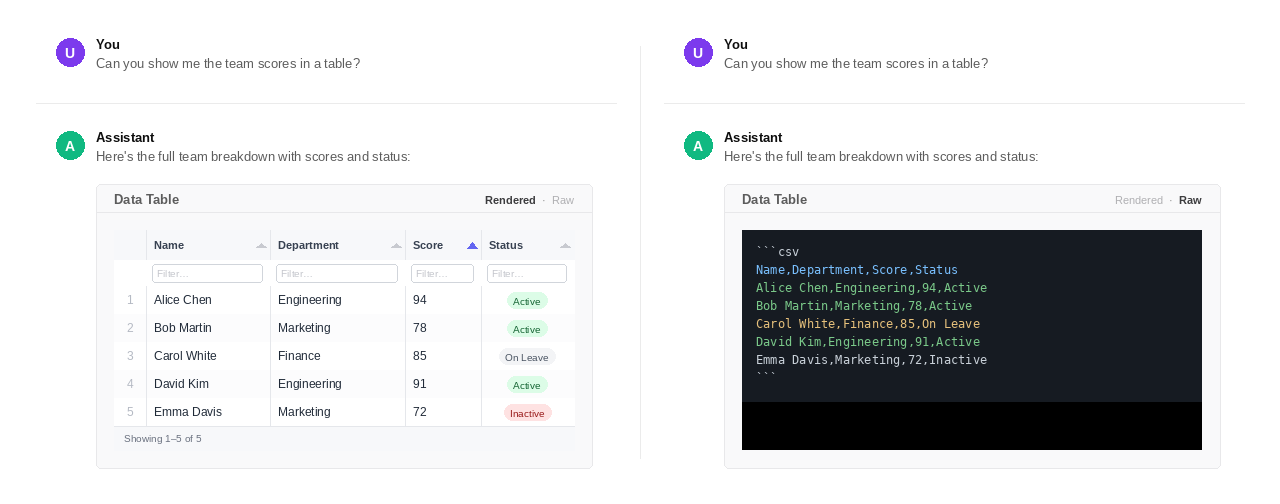
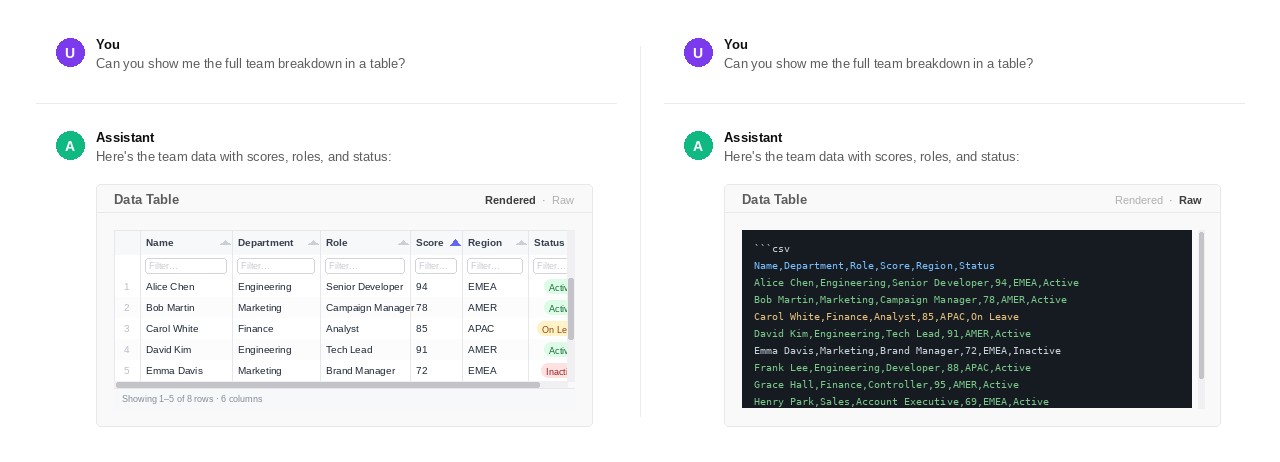
Rewrite data table renderer with denser layout and scroll
Smaller fonts (11px), 8-row dataset with 5 visible rows (V-scroll),
6 columns with horizontal scroll, sort indicators in headers,
filter row per column, and row numbers.

Claude-Session: https://claude.ai/code/session_01CYjqpWt1v2JhCDuDBEJCSM

diff --git a/samples/generate_renderer_preview.py b/samples/generate_renderer_preview.py
@@ -429,154 +429,191 @@ def make_vegalite():
 # ═══════════════════════════════════════════════════════════════════════════
 #  03 — DATA TABLE
 # ═══════════════════════════════════════════════════════════════════════════
+# ═══════════════════════════════════════════════════════════════════════════
+#  03 — DATA TABLE
+# ═══════════════════════════════════════════════════════════════════════════
 TBL_HDR_BG   = (247, 248, 250)
 TBL_HDR_TX   = ( 55,  65,  81)
 TBL_ROW_ALT  = (252, 252, 253)
 TBL_BORDER   = (229, 231, 235)
 TBL_TX       = ( 31,  41,  55)
-TBL_MUTED    = (107, 114, 128)
+TBL_MUTED    = (130, 138, 150)
 SORT_ACTIVE  = ( 99, 102, 241)
 FILTER_BG    = (255, 255, 255)
 FILTER_BDR   = (209, 213, 219)
-ROW_NUM_COL  = (180, 185, 195)
+ROW_NUM_COL  = (185, 190, 200)
 STATUS_GREEN = (220, 252, 231)
 STATUS_GTXT  = ( 22, 101,  52)
 STATUS_RED   = (254, 226, 226)
 STATUS_RTXT  = (153,  27,  27)
 STATUS_GRAY  = (243, 244, 246)
 STATUS_GTXT2 = ( 75,  85,  99)
+STATUS_AMB   = (254, 243, 199)
+STATUS_ATXT  = (146,  64,  14)
 
-COLS      = ["Name", "Department", "Score", "Status"]
-COL_W     = [110, 120, 68, 80]   # relative widths — scaled to fit
-ROW_NUM_W = 32
-ROWS = [
-    ("Alice Chen",   "Engineering", "94", "Active"),
-    ("Bob Martin",   "Marketing",   "78", "Active"),
-    ("Carol White",  "Finance",     "85", "On Leave"),
-    ("David Kim",    "Engineering", "91", "Active"),
-    ("Emma Davis",   "Marketing",   "72", "Inactive"),
+ROW_NUM_W = 26
+COLS_DEF  = [                         # (label, pixel-width in full table)
+    ("Name",        92),
+    ("Department",  88),
+    ("Role",        90),
+    ("Score",       52),
+    ("Region",      66),
+    ("Status",      66),
 ]
+ALL_ROWS = [
+    ("Alice Chen",  "Engineering", "Senior Developer",  "94", "EMEA",  "Active"),
+    ("Bob Martin",  "Marketing",   "Campaign Manager",  "78", "AMER",  "Active"),
+    ("Carol White", "Finance",     "Analyst",           "85", "APAC",  "On Leave"),
+    ("David Kim",   "Engineering", "Tech Lead",         "91", "AMER",  "Active"),
+    ("Emma Davis",  "Marketing",   "Brand Manager",     "72", "EMEA",  "Inactive"),
+    ("Frank Lee",   "Engineering", "Developer",         "88", "APAC",  "Active"),
+    ("Grace Hall",  "Finance",     "Controller",        "95", "AMER",  "Active"),
+    ("Henry Park",  "Sales",       "Account Executive", "69", "EMEA",  "Active"),
+]
+VISIBLE_ROWS = 5
+TBL_ROW_H  = 21
+TBL_HDR_H  = 25
+TBL_FILT_H = 21
+TBL_FOOT_H = 20
+V_SCROLL_W = 7
+H_SCROLL_H = 7
 
 def _status_badge(draw, cx, cy, text):
-    if text == "Active":
-        bg, tx = STATUS_GREEN, STATUS_GTXT
-    elif text == "Inactive":
-        bg, tx = STATUS_RED, STATUS_RTXT
-    else:
-        bg, tx = STATUS_GRAY, STATUS_GTXT2
-    f = UI(10)
+    if   text == "Active":   bg, tx = STATUS_GREEN, STATUS_GTXT
+    elif text == "Inactive": bg, tx = STATUS_RED,   STATUS_RTXT
+    elif text == "On Leave": bg, tx = STATUS_AMB,   STATUS_ATXT
+    else:                    bg, tx = STATUS_GRAY,  STATUS_GTXT2
+    f  = UI(9)
     tw = twidth(text, f)
-    bw, bh = tw + 12, 16
-    bx, by = cx - bw//2, cy - bh//2
-    rrect(draw, [bx, by, bx+bw, by+bh], 8, fill=bg)
-    draw.text((bx+6, by+3), text, font=f, fill=tx)
+    bw, bh = tw+10, 14
+    bx, by = cx-bw//2, cy-bh//2
+    rrect(draw, [bx, by, bx+bw, by+bh], 7, fill=bg)
+    draw.text((bx+5, by+3), text, font=f, fill=tx)
 
-def table_rendered(draw, x0, y0, x1, y1, measure=False):
-    ROW_H    = 28
-    HDR_H    = 30
-    FILT_H   = 26
-    FOOT_H   = 24
-    n_rows   = len(ROWS)
-    h = HDR_H + FILT_H + ROW_H * n_rows + FOOT_H
-    if measure: return h
+def _draw_full_table(td, col_widths, col_names, total_w):
+    """Draw the complete table (all rows, all cols) into ImageDraw td at (0,0)."""
+    hf  = BOLD(10)
+    rf  = UI(10)
+    ff  = UI(9)
 
-    W = x1 - x0
-    total_col_w = sum(COL_W)
-    scale = (W - ROW_NUM_W) / total_col_w
-    cws = [int(w * scale) for w in COL_W]
-    cws[-1] = W - ROW_NUM_W - sum(cws[:-1])   # absorb rounding
+    def cx(i):
+        return ROW_NUM_W + sum(col_widths[:i])
 
-    def col_x(i):
-        return x0 + ROW_NUM_W + sum(cws[:i])
-
-    # outer border
-    draw.rectangle([x0, y0, x1, y0+h], outline=TBL_BORDER, width=1)
-
-    # ── Header row ─────────────────────────────────────────────────────────
-    draw.rectangle([x0, y0, x1, y0+HDR_H], fill=TBL_HDR_BG)
-    draw.line([(x0, y0+HDR_H), (x1, y0+HDR_H)], fill=TBL_BORDER, width=1)
-
-    # row-num column header (blank)
-    draw.line([(x0+ROW_NUM_W, y0), (x0+ROW_NUM_W, y0+HDR_H)], fill=TBL_BORDER, width=1)
-
-    hf = BOLD(11)
-    for i, (col, cw) in enumerate(zip(COLS, cws)):
-        cx0 = col_x(i)
-        cy  = y0 + HDR_H//2 - 6
-        draw.text((cx0+8, cy), col, font=hf, fill=TBL_HDR_TX)
-        # sort icon — active on "Score" (col 2), others show neutral
-        sx = col_x(i) + cw - 14
-        sy = y0 + HDR_H//2
-        if i == 2:   # active sort column
-            draw.polygon([(sx,sy+3),(sx+5,sy-3),(sx+10,sy+3)], fill=SORT_ACTIVE)
+    # ── Header ───────────────────────────────────────────────────────────
+    td.rectangle([0, 0, total_w, TBL_HDR_H], fill=TBL_HDR_BG)
+    td.line([(0, TBL_HDR_H), (total_w, TBL_HDR_H)], fill=TBL_BORDER, width=1)
+    td.line([(ROW_NUM_W, 0), (ROW_NUM_W, TBL_HDR_H)], fill=TBL_BORDER, width=1)
+    for i, (name, cw) in enumerate(zip(col_names, col_widths)):
+        td.text((cx(i)+6, TBL_HDR_H//2-6), name, font=hf, fill=TBL_HDR_TX)
+        sx = cx(i)+cw-12
+        sy = TBL_HDR_H//2
+        if i == 3:   # score — active sort
+            td.polygon([(sx,sy+3),(sx+5,sy-3),(sx+10,sy+3)], fill=SORT_ACTIVE)
         else:
-            draw.polygon([(sx,sy+2),(sx+5,sy-2),(sx+10,sy+2)], fill=(200,202,208))
-        # col divider
-        if i < len(COLS)-1:
-            draw.line([(col_x(i+1), y0), (col_x(i+1), y0+HDR_H+FILT_H)], fill=TBL_BORDER, width=1)
+            td.polygon([(sx,sy+2),(sx+5,sy-2),(sx+10,sy+2)], fill=(205,207,213))
+        if i < len(col_names)-1:
+            td.line([(cx(i+1), 0),(cx(i+1), TBL_HDR_H)], fill=TBL_BORDER, width=1)
 
-    # ── Filter row ─────────────────────────────────────────────────────────
-    fy0 = y0 + HDR_H
-    draw.rectangle([x0, fy0, x1, fy0+FILT_H], fill=WHITE)
-    draw.line([(x0, fy0+FILT_H), (x1, fy0+FILT_H)], fill=TBL_BORDER, width=1)
-    ff = UI(10)
-    for i, cw in enumerate(cws):
-        fx0 = col_x(i) + 6
-        fx1 = col_x(i) + cw - 8
-        fiy0 = fy0 + 4
-        fiy1 = fy0 + FILT_H - 4
-        rrect(draw, [fx0, fiy0, fx1, fiy1], 3, fill=FILTER_BG, outline=FILTER_BDR, lw=1)
-        draw.text((fx0+5, fiy0+3), "Filter…", font=ff, fill=(196,198,204))
+    # ── Filter row ────────────────────────────────────────────────────────
+    fy = TBL_HDR_H
+    td.rectangle([0, fy, total_w, fy+TBL_FILT_H], fill=WHITE)
+    td.line([(0, fy+TBL_FILT_H),(total_w, fy+TBL_FILT_H)], fill=TBL_BORDER, width=1)
+    for i, cw in enumerate(col_widths):
+        fx0 = cx(i)+5;  fx1 = cx(i)+cw-6
+        rrect(td, [fx0, fy+3, fx1, fy+TBL_FILT_H-3], 3,
+              fill=FILTER_BG, outline=FILTER_BDR, lw=1)
+        td.text((fx0+4, fy+5), "Filter…", font=ff, fill=(200,202,208))
+        if i < len(col_names)-1:
+            td.line([(cx(i+1), fy),(cx(i+1), fy+TBL_FILT_H)], fill=TBL_BORDER, width=1)
+    td.line([(ROW_NUM_W, fy),(ROW_NUM_W, fy+TBL_FILT_H)], fill=TBL_BORDER, width=1)
 
-    # ── Data rows ──────────────────────────────────────────────────────────
-    rf = UI(12)
-    rny0 = y0 + HDR_H + FILT_H
-    for r, row in enumerate(ROWS):
-        ry0 = rny0 + r * ROW_H
-        ry1 = ry0 + ROW_H
-        bg = WHITE if r % 2 == 0 else TBL_ROW_ALT
-        draw.rectangle([x0, ry0, x1, ry1], fill=bg)
-        draw.line([(x0, ry1), (x1, ry1)], fill=TBL_BORDER, width=1)
+    # ── Data rows ─────────────────────────────────────────────────────────
+    ry_base = TBL_HDR_H + TBL_FILT_H
+    for r, row in enumerate(ALL_ROWS):
+        ry0 = ry_base + r*TBL_ROW_H
+        ry1 = ry0 + TBL_ROW_H
+        bg  = WHITE if r % 2 == 0 else TBL_ROW_ALT
+        td.rectangle([0, ry0, total_w, ry1], fill=bg)
+        td.line([(0, ry1),(total_w, ry1)], fill=TBL_BORDER, width=1)
         # row number
         rn = str(r+1)
         rnw = twidth(rn, rf)
-        draw.text((x0 + ROW_NUM_W//2 - rnw//2, ry0 + ROW_H//2 - 7), rn, font=rf, fill=ROW_NUM_COL)
-        draw.line([(x0+ROW_NUM_W, ry0), (x0+ROW_NUM_W, ry1)], fill=TBL_BORDER, width=1)
-        # cells
-        for i, (val, cw) in enumerate(zip(row, cws)):
-            cx0 = col_x(i)
-            cy  = ry0 + ROW_H//2 - 7
-            if i == 3:   # status badge
-                _status_badge(draw, cx0 + cw//2, ry0 + ROW_H//2, val)
+        td.text((ROW_NUM_W//2-rnw//2, ry0+TBL_ROW_H//2-6), rn, font=rf, fill=ROW_NUM_COL)
+        td.line([(ROW_NUM_W, ry0),(ROW_NUM_W, ry1)], fill=TBL_BORDER, width=1)
+        for i, (val, cw) in enumerate(zip(row, col_widths)):
+            if i == 5:
+                _status_badge(td, cx(i)+cw//2, ry0+TBL_ROW_H//2, val)
             else:
-                draw.text((cx0+8, cy), val, font=rf, fill=TBL_TX)
-            if i < len(COLS)-1:
-                draw.line([(col_x(i+1), ry0), (col_x(i+1), ry1)], fill=TBL_BORDER, width=1)
+                td.text((cx(i)+6, ry0+TBL_ROW_H//2-6), val, font=rf, fill=TBL_TX)
+            if i < len(col_widths)-1:
+                td.line([(cx(i+1),ry0),(cx(i+1),ry1)], fill=TBL_BORDER, width=1)
 
-    # ── Footer ─────────────────────────────────────────────────────────────
-    foot_y = rny0 + len(ROWS)*ROW_H
-    draw.rectangle([x0, foot_y, x1, foot_y+FOOT_H], fill=TBL_HDR_BG)
-    draw.line([(x0, foot_y), (x1, foot_y)], fill=TBL_BORDER, width=1)
-    draw.text((x0+10, foot_y+6), f"Showing 1–{len(ROWS)} of {len(ROWS)}", font=UI(10), fill=TBL_MUTED)
+def table_rendered(draw, x0, y0, x1, y1, measure=False):
+    h = TBL_HDR_H + TBL_FILT_H + TBL_ROW_H*VISIBLE_ROWS + H_SCROLL_H + TBL_FOOT_H
+    if measure: return h
+
+    viewport_w  = x1 - x0
+    col_vp_w    = viewport_w - V_SCROLL_W    # column area leaves room for v-scrollbar
+    row_vp_h    = TBL_HDR_H + TBL_FILT_H + TBL_ROW_H * VISIBLE_ROWS
+
+    col_names   = [c[0] for c in COLS_DEF]
+    col_widths  = [c[1] for c in COLS_DEF]
+    full_w      = ROW_NUM_W + sum(col_widths)
+    full_h      = TBL_HDR_H + TBL_FILT_H + TBL_ROW_H * len(ALL_ROWS)
+
+    # Draw full table into temp image, paste clipped region
+    tmp    = Image.new("RGB", (full_w, full_h), WHITE)
+    td     = ImageDraw.Draw(tmp)
+    _draw_full_table(td, col_widths, col_names, full_w)
+    img_ref = draw._image
+    img_ref.paste(tmp.crop((0, 0, col_vp_w, row_vp_h)), (x0, y0))
+
+    # Outer border around the column+row viewport
+    draw.rectangle([x0, y0, x0+col_vp_w, y0+row_vp_h], outline=TBL_BORDER, width=1)
+
+    # ── Vertical scrollbar ────────────────────────────────────────────────
+    vsx  = x0 + col_vp_w
+    vsy0 = y0 + TBL_HDR_H + TBL_FILT_H
+    vsy1 = y0 + row_vp_h
+    draw.rectangle([vsx, y0, vsx+V_SCROLL_W, y0+row_vp_h], fill=SCROLL_TRACK)
+    v_thumb_h = max(16, int((vsy1-vsy0) * VISIBLE_ROWS / len(ALL_ROWS)))
+    rrect(draw, [vsx+1, vsy0+2, vsx+V_SCROLL_W-1, vsy0+v_thumb_h-2], 3, fill=SCROLL_THUMB)
+
+    # ── Horizontal scrollbar ──────────────────────────────────────────────
+    hsy  = y0 + row_vp_h
+    draw.rectangle([x0, hsy, x0+col_vp_w, hsy+H_SCROLL_H], fill=SCROLL_TRACK)
+    h_thumb_w = max(24, int(col_vp_w * col_vp_w / full_w))
+    rrect(draw, [x0+2, hsy+1, x0+h_thumb_w-2, hsy+H_SCROLL_H-1], 3, fill=SCROLL_THUMB)
+
+    # ── Footer ────────────────────────────────────────────────────────────
+    foot_y = hsy + H_SCROLL_H
+    draw.rectangle([x0, foot_y, x1, foot_y+TBL_FOOT_H], fill=TBL_HDR_BG)
+    draw.line([(x0, foot_y),(x1, foot_y)], fill=TBL_BORDER, width=1)
+    draw.text((x0+8, foot_y+5),
+              f"Showing 1–{VISIBLE_ROWS} of {len(ALL_ROWS)} rows · {len(COLS_DEF)} columns",
+              font=UI(9), fill=TBL_MUTED)
 
 def table_raw(draw, x0, y0, x1, y1, measure=False):
     lines = [
-        ("```csv",                                      CODE_TEXT),
-        ("Name,Department,Score,Status",                CODE_BLUE),
-        ("Alice Chen,Engineering,94,Active",            CODE_GREEN),
-        ("Bob Martin,Marketing,78,Active",              CODE_GREEN),
-        ("Carol White,Finance,85,On Leave",             CODE_YELLOW),
-        ("David Kim,Engineering,91,Active",             CODE_GREEN),
-        ("Emma Davis,Marketing,72,Inactive",            CODE_TEXT),
-        ("```",                                         CODE_TEXT),
+        ("```csv",                                             CODE_TEXT),
+        ("Name,Department,Role,Score,Region,Status",          CODE_BLUE),
+        ("Alice Chen,Engineering,Senior Developer,94,EMEA,Active",   CODE_GREEN),
+        ("Bob Martin,Marketing,Campaign Manager,78,AMER,Active",     CODE_GREEN),
+        ("Carol White,Finance,Analyst,85,APAC,On Leave",             CODE_YELLOW),
+        ("David Kim,Engineering,Tech Lead,91,AMER,Active",           CODE_GREEN),
+        ("Emma Davis,Marketing,Brand Manager,72,EMEA,Inactive",      CODE_TEXT),
+        ("Frank Lee,Engineering,Developer,88,APAC,Active",           CODE_GREEN),
+        ("Grace Hall,Finance,Controller,95,AMER,Active",             CODE_GREEN),
+        ("Henry Park,Sales,Account Executive,69,EMEA,Active",        CODE_GREEN),
+        ("```",                                                CODE_TEXT),
     ]
-    lh, pad = 18, 14
+    lh, pad = 17, 12
     h = pad*2 + len(lines)*lh
     if measure: return h
     if draw: draw.rectangle([x0, y0, x1, y0+h], fill=CODE_BG)
-    mf = MONO_(12)
+    mf = MONO_(10)
     for i, (txt, col) in enumerate(lines):
-        if draw: draw.text((x0+14, y0+pad+i*lh), txt, font=mf, fill=col)
+        if draw: draw.text((x0+12, y0+pad+i*lh), txt, font=mf, fill=col)
 
 def make_table():
     PANEL_W = 580
@@ -584,8 +621,8 @@ def make_table():
     GAP     = 48
     W       = OUTER*2 + PANEL_W*2 + GAP
 
-    user_msg = "Can you show me the team scores in a table?"
-    asst_msg = "Here's the full team breakdown with scores and status:"
+    user_msg = "Can you show me the full team breakdown in a table?"
+    asst_msg = "Here's the team data with scores, roles, and status:"
     title    = "Data Table"
 
     probe = Image.new("RGB", (W, 1000), PAGE_BG)
